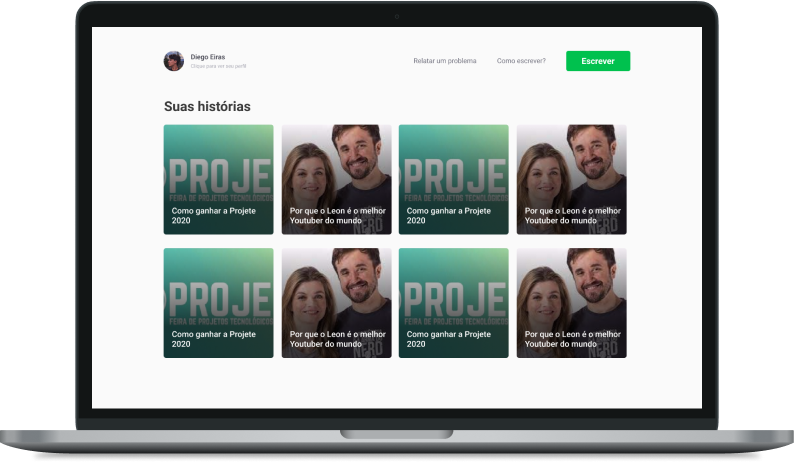
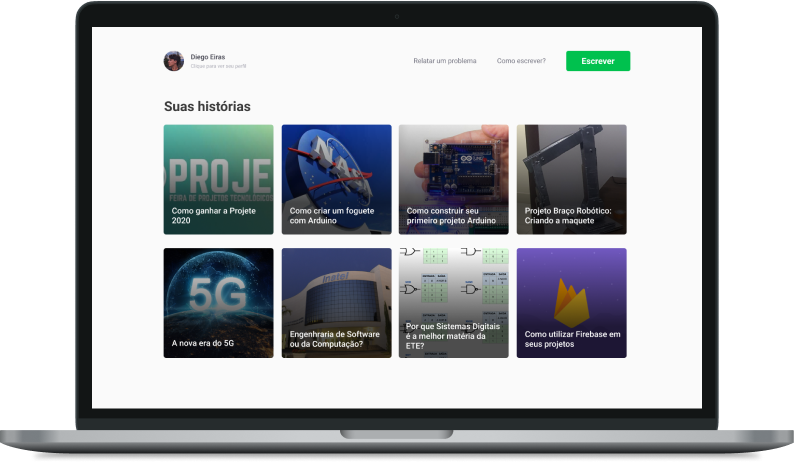
🎭 Change image jokes

Changed region(s): [[0.1814, 0.2419, 0.8161, 0.7862]]

diff --git a/src/pages/Dashboard/index.js b/src/pages/Dashboard/index.js
@@ -50,24 +50,24 @@ export default function Dashboard() {
           <h1>Suas Histórias</h1>
 
           <PostList>
-            <Post background="https://avatars0.githubusercontent.com/u/67290471?s=460&u=3a40833b6b1e19b81017cb915f8af816f1e51ea7&v=4">
-              <h2>Porque eu sou tão bonito?</h2>
+            <Post background="https://placehold.it/260">
+              <h2>Placeholder (building)</h2>
             </Post>
 
-            <Post background="https://avatars0.githubusercontent.com/u/67290471?s=460&u=3a40833b6b1e19b81017cb915f8af816f1e51ea7&v=4">
-              <h2>Porque eu sou tão bonito?</h2>
+            <Post background="https://placehold.it/260">
+              <h2>Placeholder (building)</h2>
             </Post>
 
-            <Post background="https://avatars0.githubusercontent.com/u/67290471?s=460&u=3a40833b6b1e19b81017cb915f8af816f1e51ea7&v=4">
-              <h2>Porque eu sou tão bonito?</h2>
+            <Post background="https://placehold.it/260">
+              <h2>Placeholder (building)</h2>
             </Post>
 
-            <Post background="https://avatars0.githubusercontent.com/u/67290471?s=460&u=3a40833b6b1e19b81017cb915f8af816f1e51ea7&v=4">
-              <h2>Porque eu sou tão bonito?</h2>
+            <Post background="https://placehold.it/260">
+              <h2>Placeholder (building)</h2>
             </Post>
 
-            <Post background="https://avatars0.githubusercontent.com/u/67290471?s=460&u=3a40833b6b1e19b81017cb915f8af816f1e51ea7&v=4">
-              <h2>Porque eu sou tão bonito?</h2>
+            <Post background="https://placehold.it/260">
+              <h2>Placeholder (building)</h2>
             </Post>
           </PostList>
         </Content>
